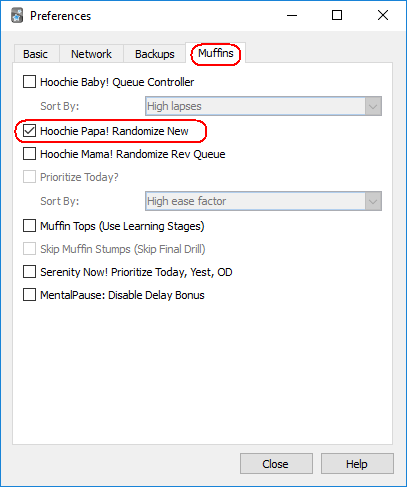
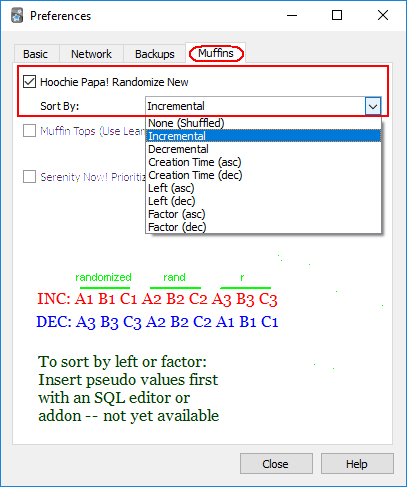
added round robin sorting of subdecks

Changed region(s): [[0.0295, 0.0616, 0.973, 0.5236], [0.059, 0.5544, 0.6781, 0.6776], [0.0885, 0.7084, 0.5307, 0.8624]]

diff --git a/src/hoochiePapa.py b/src/hoochiePapa.py
@@ -2,14 +2,28 @@
 # Copyright: (C) 2018-2019 Lovac42
 # Support: https://github.com/lovac42/HoochiePapa
 # License: GNU GPL, version 3 or later; http://www.gnu.org/copyleft/gpl.html
-# Version: 0.1.1
+# Version: 0.2.0
 
+
+
+CUSTOM_SORT = {
+  0:["None (Shuffled)", "order by due"],
 
 # == User Config =========================================
 
-# None
+  1:["Incremental Due",     "order by due asc"],
+  2:["Decremental Due",    "order by due desc"],
+  3:["Creation Time (asc)",  "order by id asc"],
+  4:["Creation Time (dec)", "order by id desc"],
+  5:["Left (asc)",         "order by left asc"],
+  6:["Left (dec)",        "order by left desc"],
+  7:["Factor (asc)",     "order by factor asc"],
+  8:["Factor (dec)",    "order by factor desc"]
 
 # == End Config ==========================================
+
+}
+
 
 ## Performance Config ####################################
 
@@ -57,13 +71,21 @@ def fillNew(self, _old):
     did=self.col.decks.selected()
     lim=self._deckNewLimit(did)
     if lim:
+        sortLevel=qc.get("hoochiePapaSort", 0)
+        assert sortLevel < len(CUSTOM_SORT)
+        sortBy=CUSTOM_SORT[sortLevel][1]
+
         lim=min(self.queueLimit,lim)
-        self._newQueue=getNewQueuePerSubDeck(self,lim)
+        self._newQueue=getNewQueuePerSubDeck(self,sortBy,lim)
         if self._newQueue:
-            r = random.Random()
-            # r.seed(self.today) #same seed in case user edits card.
-            r.shuffle(self._newQueue)
+            if sortLevel:
+                self._newQueue.reverse() #preserve order
+            else:
+                r = random.Random()
+                # r.seed(self.today) #same seed in case user edits card.
+                r.shuffle(self._newQueue)
             return True
+
     if self.newCount:
         # if we didn't get a card but the count is non-zero,
         # we need to check again for any cards that were
@@ -73,8 +95,8 @@ def fillNew(self, _old):
 
 
 #Custom queue builder for New-Queue
-def getNewQueuePerSubDeck(sched,penetration):
-    newQueue=[]
+def getNewQueuePerSubDeck(sched, sortBy, penetration):
+    mulArr=[]
     LEN=len(sched._newDids)
     if LEN>DECK_LIST_SHUFFLE_LIMIT: #segments
         sched._newDids=cutDecks(sched._newDids,4) #0based
@@ -83,6 +105,7 @@ def getNewQueuePerSubDeck(sched,penetration):
         r.shuffle(sched._newDids)
 
     pen=max(5,penetration//LEN) #if div by large val
+    size=0
     for did in sched._newDids:
         lim=sched._deckNewLimit(did)
         if not lim: continue
@@ -91,9 +114,21 @@ def getNewQueuePerSubDeck(sched,penetration):
         arr=sched.col.db.list("""
 select id from cards where
 did = ? and queue = 0
-order by due limit ?""", did, lim)
-        newQueue.extend(arr)
-        if len(newQueue)>=penetration: break
+%s limit ?"""%sortBy, did, lim)
+        arr.reverse()
+        mulArr.append(arr)
+        size+=len(arr)
+        if size>=penetration: break
+
+    return mergeQueues(mulArr,size)
+
+
+def mergeQueues(mulArr, size):
+    newQueue=[]
+    for _ in range(size):
+        for arr in mulArr:
+            if arr:
+                newQueue.append(arr.pop())
     return newQueue
 
 
@@ -147,15 +182,34 @@ def setupUi(self, Preferences):
     self.lrnStageGLayout.addWidget(self.hoochiePapa, r, 0, 1, 3)
 
 
+    r+=1
+    self.hoochiePapaSortLbl=QtWidgets.QLabel(self.lrnStage)
+    self.hoochiePapaSortLbl.setText(_("      Sort NewQ By:"))
+    self.lrnStageGLayout.addWidget(self.hoochiePapaSortLbl, r, 0, 1, 1)
+
+    self.hoochiePapaSort = QtWidgets.QComboBox(self.lrnStage)
+    if ANKI21:
+        itms=CUSTOM_SORT.items()
+    else:
+        itms=CUSTOM_SORT.iteritems()
+    for i,v in itms:
+        self.hoochiePapaSort.addItem(_(""))
+        self.hoochiePapaSort.setItemText(i, _(v[0]))
+    self.lrnStageGLayout.addWidget(self.hoochiePapaSort, r, 1, 1, 2)
+
+
 def load(self, mw):
     qc = self.mw.col.conf
     cb=qc.get("hoochiePapa", 0)
     self.form.hoochiePapa.setCheckState(cb)
+    idx=qc.get("hoochiePapaSort", 0)
+    self.form.hoochiePapaSort.setCurrentIndex(idx)
 
 
 def save(self):
     qc = self.mw.col.conf
     qc['hoochiePapa']=self.form.hoochiePapa.checkState()
+    qc['hoochiePapaSort']=self.form.hoochiePapaSort.currentIndex()
 
 
 aqt.forms.preferences.Ui_Preferences.setupUi = wrap(aqt.forms.preferences.Ui_Preferences.setupUi, setupUi, "after")
